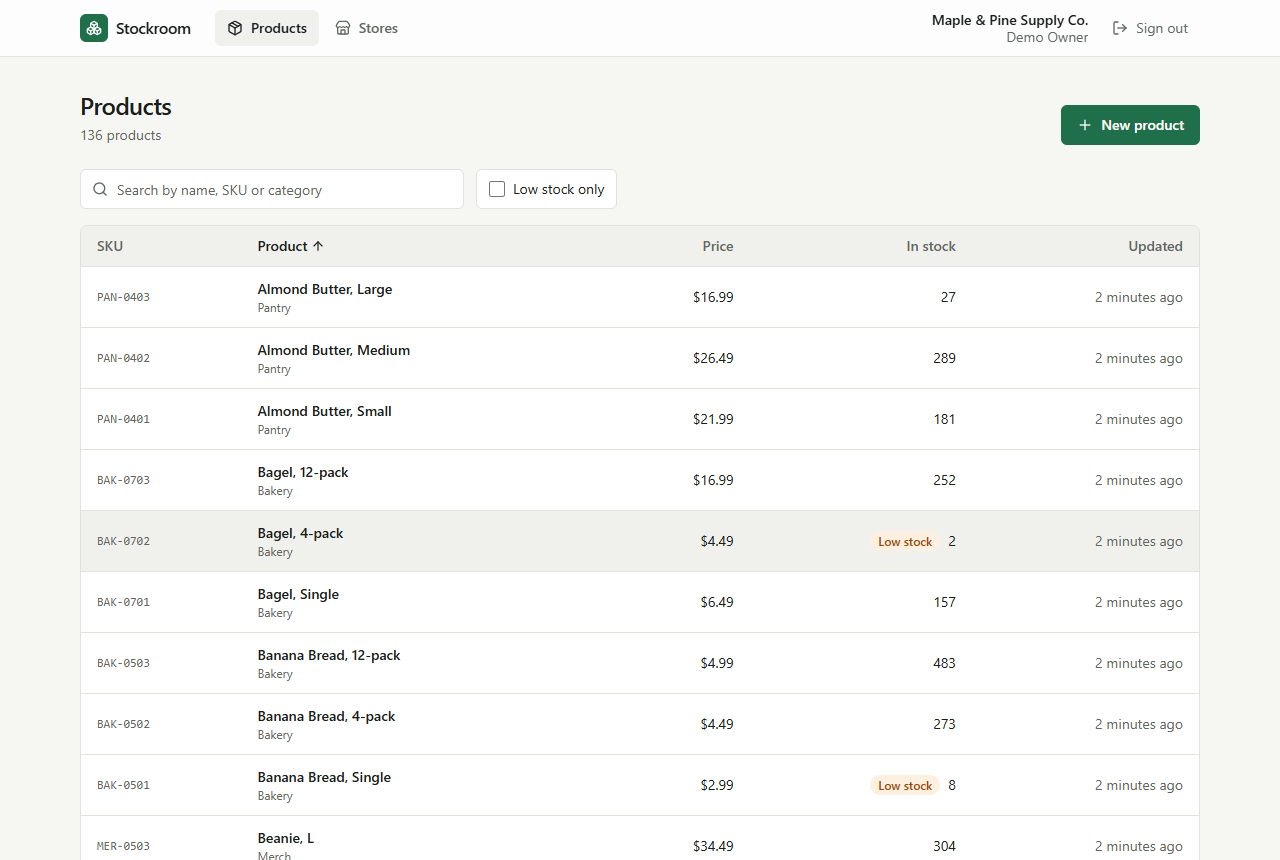
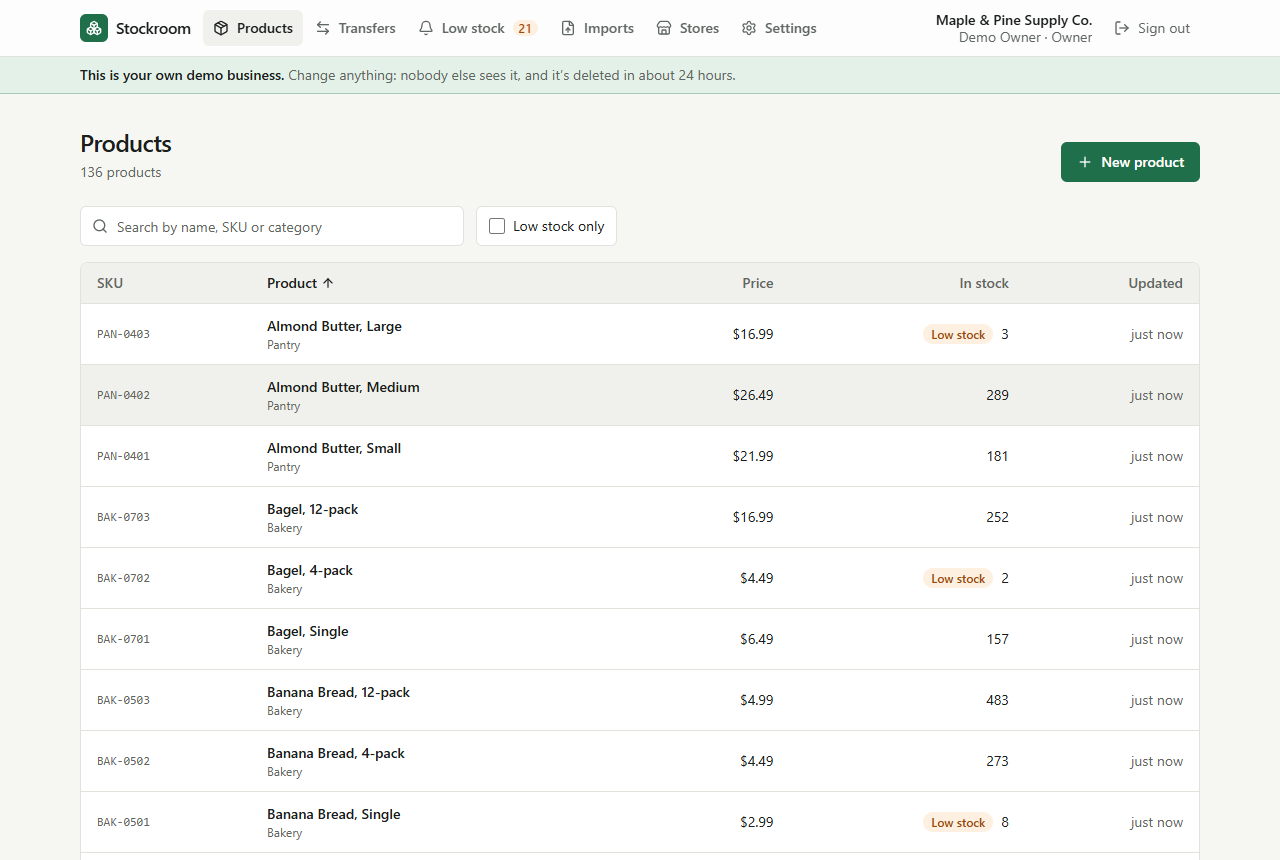
Link the live demo and refresh the product list screenshot
Stockroom is live at https://stockroom-5x6w.onrender.com on free plans
(Render, Neon and Upstash). The README now links it, explains the cold
start after idle periods, and marks phase 5 done. The product list
screenshot is replaced with one from the current build, showing the full
navigation and the demo banner.

diff --git a/README.md b/README.md
@@ -2,13 +2,15 @@
 
 Inventory for small retailers: products, stock across several stores, transfers between them, a full history of every change, low-stock alerts sent as signed webhooks, staff accounts, and spreadsheet imports of up to 100,000 rows that run in the background. Built to be correct under concurrency and failure, and to run entirely on free hosting.
 
-![Product list with search, sorting and low-stock badges](docs/images/products.png)
+**Live demo: [stockroom-5x6w.onrender.com](https://stockroom-5x6w.onrender.com)**. Press **Try the demo** for your own sample business, yours for 24 hours. It runs on free plans, so if nobody has visited for a while the first load takes about a minute while the server wakes up.
+
+![The product list in a demo business, with search, sorting, low-stock badges and the demo banner](docs/images/products.png)
 
 ![An import of 30,000 rows in progress, with live counts of new products, updates, stock changes and skipped rows](docs/images/import-progress.png)
 
 ![A received transfer from Queen Street West to Kensington Market, with one mug recorded as short](docs/images/transfer.png)
 
-> **Status:** feature-complete and ready to deploy for free (Render, Neon and Upstash; see [docs/deploy.md](docs/deploy.md)). On the live demo, **Try the demo** gives each visitor a private sample business for 24 hours. See the [roadmap](#roadmap).
+> **Status:** all five phases are done, and it's [live](https://stockroom-5x6w.onrender.com) on free plans (Render, Neon and Upstash; see [docs/deploy.md](docs/deploy.md)).
 
 ## What's interesting here
 
@@ -114,4 +116,4 @@ scripts/
 - [x] **Phase 2: bulk imports.** CSV and Excel files of up to 100,000 rows, processed in the background in chunks that resume after a crash, with live progress and a per-row problem report
 - [x] **Phase 3: operations.** Transfers between stores, low-stock alerts through a transactional outbox, signed webhooks with retries, staff accounts with invite links
 - [x] **Phase 4: performance.** Load tests and query plans; stock totals kept by triggers, keyset paging, capped counts and trigram search; Prometheus metrics. [Results](docs/performance.md)
-- [ ] **Phase 5: live demo.** ~~Sandbox business per visitor~~ (done), ~~free deployment config and guide~~ (done); next, the live link
+- [x] **Phase 5: live demo.** [Deployed for free](https://stockroom-5x6w.onrender.com) on Render, Neon and Upstash, with a private sandbox business per visitor that's deleted after a day
